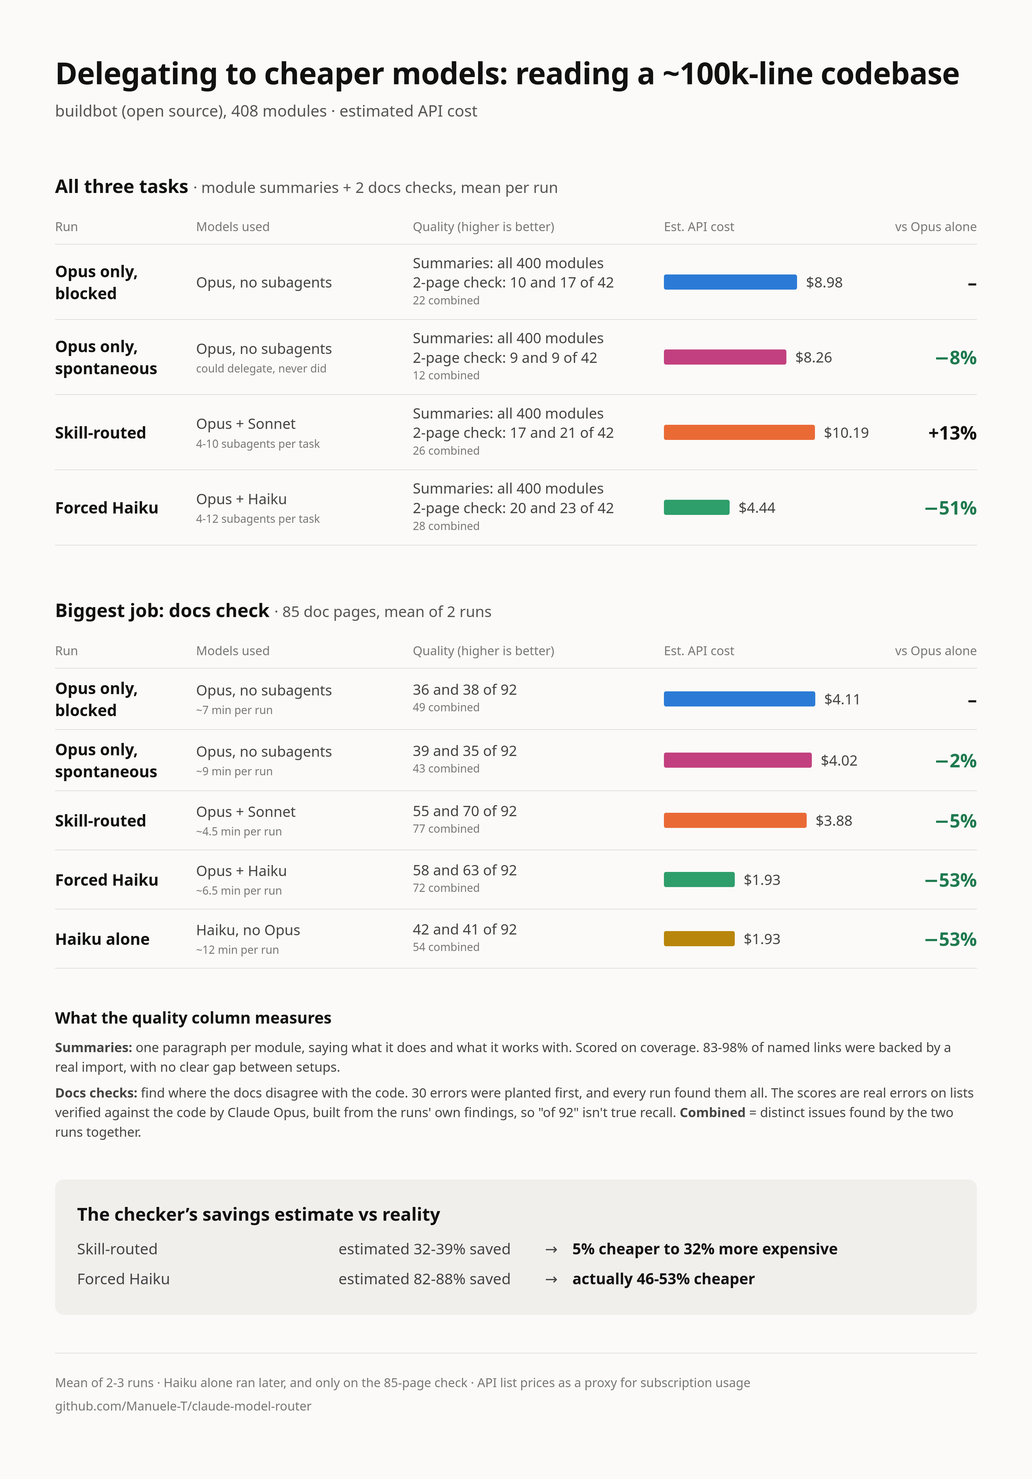
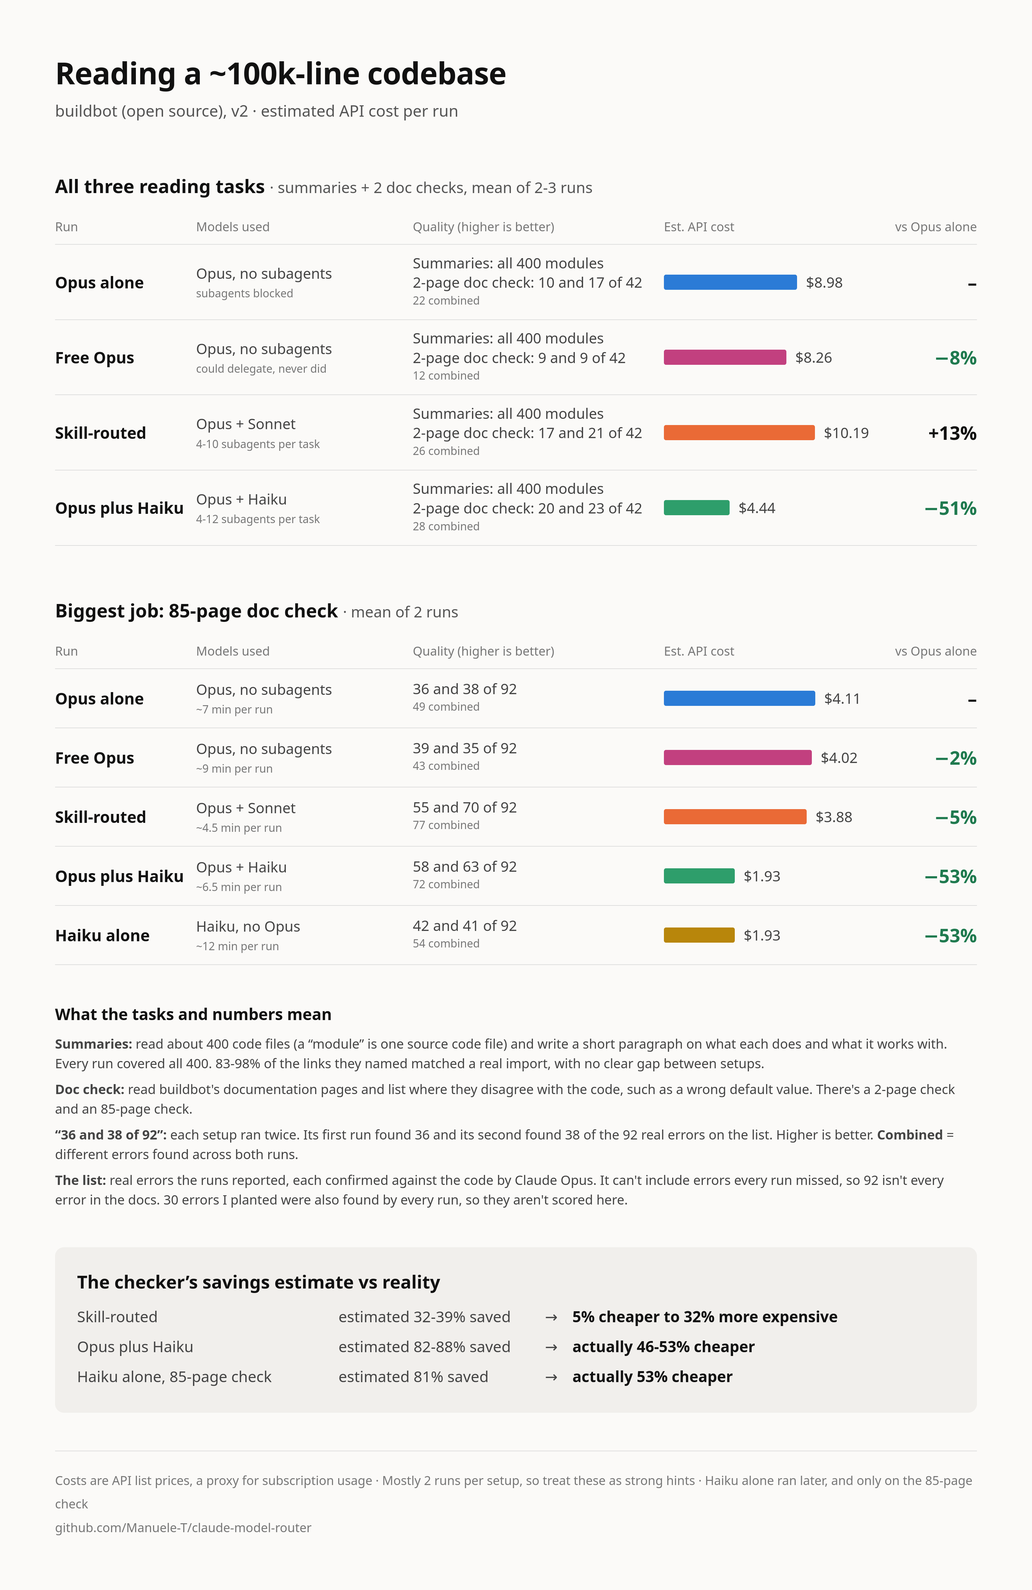
Replace v2 coding chart with clearer charts, add quality vs price chart

diff --git a/scripts/make_charts.py b/scripts/make_charts.py
@@ -53,11 +53,11 @@ def esc(s):
     return html.escape(s)
 
 
-def section(title, note, rows, base="forced Opus"):
+def section(title, note, rows, base="forced Opus", cost_label="Est. API cost"):
     top = max(r["cost"] for r in rows)
     out = [f"<h2>{esc(title)} <span>· {esc(note)}</span></h2>",
            '<div class="thead"><div>Run</div><div>Models used</div><div>Quality (higher is better)</div>'
-           f'<div>Est. API cost</div><div>vs {esc(base)}</div></div>']
+           f'<div>{esc(cost_label)}</div><div>vs {esc(base)}</div></div>']
     for r in rows:
         width = int(440 * r["cost"] / top)
         small = f"<small>{esc(r['small'])}</small>" if r.get("small") else ""
@@ -77,8 +77,8 @@ def section(title, note, rows, base="forced Opus"):
     return "\n".join(out)
 
 
-def page(title, subtitle, sections, explanation, checker, foot_note):
-    expl = ('<div class="expl"><h3>What the quality column measures</h3>'
+def page(title, subtitle, sections, explanation, checker, foot_note, expl_title="What the quality column measures"):
+    expl = (f'<div class="expl"><h3>{esc(expl_title)}</h3>'
             + "".join(f"<p>{x}</p>" for x in explanation) + "</div>")
     lines = "".join(
         f'<div class="l"><div>{esc(a)}</div><div>estimated {esc(b)} saved</div><div>→</div><b>{esc(c)}</b></div>'
@@ -93,6 +93,14 @@ def page(title, subtitle, sections, explanation, checker, foot_note):
 OPUS = {"name": "Opus only, forced", "models": "Opus, no subagents", "small": "told not to delegate", "kind": "opus"}
 NAT = {"name": "Opus only, spontaneous", "models": "Opus, no subagents", "small": "could delegate, never did", "kind": "natural"}
 LEGEND = "Forced = Opus told no routing · Spontaneous = plain Claude Code, no skill (it never delegated) · Skill-routed = the skill picks Opus's helpers · Forced Haiku = every helper on Haiku · API list prices as a proxy for subscription usage"
+
+V2_OPUS = {"name": "Opus alone", "models": "Opus, no subagents", "small": "subagents blocked", "kind": "opus"}
+V2_FREE = {"name": "Free Opus", "models": "Opus, no subagents", "small": "could delegate, never did", "kind": "natural"}
+V2_SKILL = {"name": "Skill-routed", "models": "Opus + Sonnet and Haiku", "small": "my skill picks the helpers", "kind": "routed"}
+V2_OH = {"name": "Opus plus Haiku", "models": "Opus + Haiku", "small": "Opus plans and reviews", "kind": "haiku"}
+V2_H = {"name": "Haiku alone", "models": "Haiku, no Opus", "kind": "solo"}
+V2_KEY = "Costs are API list prices, a proxy for subscription usage · Mostly 2 runs per setup, so treat these as strong hints"
+EXPL = "What the tasks and numbers mean"
 
 CHARTS = {
     "smaller-codebase": (page(
@@ -221,86 +229,104 @@ CHARTS = {
         [],
         "Two runs per setup · Haiku alone ran later, on the same Claude Code version · API list prices as a proxy for subscription usage"), 4000),
     "v2-reading": (page(
-        "Delegating to cheaper models: reading a ~100k-line codebase",
-        "buildbot (open source), 408 modules · estimated API cost",
-        [section("All three tasks", "module summaries + 2 docs checks, mean per run", [
-            {"name": "Opus only, blocked", "models": "Opus, no subagents", "kind": "opus", "cost": 8.98,
-             "quality": ["Summaries: all 400 modules", "2-page check: 10 and 17 of 42 (22 combined)"]},
-            {"name": "Opus only, spontaneous", "models": "Opus, no subagents", "small": "could delegate, never did",
-             "kind": "natural", "cost": 8.26, "delta": "−8%",
-             "quality": ["Summaries: all 400 modules", "2-page check: 9 and 9 of 42 (12 combined)"]},
-            {"name": "Skill-routed", "models": "Opus + Sonnet", "small": "4-10 subagents per task", "kind": "routed",
-             "cost": 10.19, "delta": "+13%",
-             "quality": ["Summaries: all 400 modules", "2-page check: 17 and 21 of 42 (26 combined)"]},
-            {"name": "Forced Haiku", "models": "Opus + Haiku", "small": "4-12 subagents per task", "kind": "haiku",
-             "cost": 4.44, "delta": "−51%",
-             "quality": ["Summaries: all 400 modules", "2-page check: 20 and 23 of 42 (28 combined)"]},
+        "Reading a ~100k-line codebase",
+        "buildbot (open source), v2 · estimated API cost per run",
+        [section("All three reading tasks", "summaries + 2 doc checks, mean of 2-3 runs", [
+            {**V2_OPUS, "cost": 8.98,
+             "quality": ["Summaries: all 400 modules", "2-page doc check: 10 and 17 of 42 (22 combined)"]},
+            {**V2_FREE, "cost": 8.26, "delta": "−8%",
+             "quality": ["Summaries: all 400 modules", "2-page doc check: 9 and 9 of 42 (12 combined)"]},
+            {**V2_SKILL, "models": "Opus + Sonnet", "small": "4-10 subagents per task", "cost": 10.19, "delta": "+13%",
+             "quality": ["Summaries: all 400 modules", "2-page doc check: 17 and 21 of 42 (26 combined)"]},
+            {**V2_OH, "small": "4-12 subagents per task", "cost": 4.44, "delta": "−51%",
+             "quality": ["Summaries: all 400 modules", "2-page doc check: 20 and 23 of 42 (28 combined)"]},
          ], base="Opus alone"),
-         section("Biggest job: docs check", "85 doc pages, mean of 2 runs", [
-            {"name": "Opus only, blocked", "models": "Opus, no subagents", "small": "~7 min per run", "kind": "opus",
-             "cost": 4.11, "quality": ["36 and 38 of 92 (49 combined)"]},
-            {"name": "Opus only, spontaneous", "models": "Opus, no subagents", "small": "~9 min per run", "kind": "natural",
-             "cost": 4.02, "delta": "−2%", "quality": ["39 and 35 of 92 (43 combined)"]},
-            {"name": "Skill-routed", "models": "Opus + Sonnet", "small": "~4.5 min per run", "kind": "routed",
-             "cost": 3.88, "delta": "−5%", "quality": ["55 and 70 of 92 (77 combined)"]},
-            {"name": "Forced Haiku", "models": "Opus + Haiku", "small": "~6.5 min per run", "kind": "haiku",
-             "cost": 1.93, "delta": "−53%", "quality": ["58 and 63 of 92 (72 combined)"]},
-            {"name": "Haiku alone", "models": "Haiku, no Opus", "small": "~12 min per run", "kind": "solo",
-             "cost": 1.93, "delta": "−53%", "quality": ["42 and 41 of 92 (54 combined)"]},
+         section("Biggest job: 85-page doc check", "mean of 2 runs", [
+            {**V2_OPUS, "small": "~7 min per run", "cost": 4.11, "quality": ["36 and 38 of 92 (49 combined)"]},
+            {**V2_FREE, "small": "~9 min per run", "cost": 4.02, "delta": "−2%", "quality": ["39 and 35 of 92 (43 combined)"]},
+            {**V2_SKILL, "models": "Opus + Sonnet", "small": "~4.5 min per run", "cost": 3.88, "delta": "−5%",
+             "quality": ["55 and 70 of 92 (77 combined)"]},
+            {**V2_OH, "small": "~6.5 min per run", "cost": 1.93, "delta": "−53%", "quality": ["58 and 63 of 92 (72 combined)"]},
+            {**V2_H, "small": "~12 min per run", "cost": 1.93, "delta": "−53%", "quality": ["42 and 41 of 92 (54 combined)"]},
          ], base="Opus alone")],
-        ["<b>Summaries:</b> one paragraph per module, saying what it does and what it works with. Scored on coverage. "
-         "83-98% of named links were backed by a real import, with no clear gap between setups.",
-         "<b>Docs checks:</b> find where the docs disagree with the code. 30 errors were planted first, and every run found them all. "
-         "The scores are real errors on lists verified against the code by Claude Opus, built from the runs' own findings, so \"of 92\" isn't true recall. "
-         "<b>Combined</b> = distinct issues found by the two runs together."],
+        ["<b>Summaries:</b> read about 400 code files (a “module” is one source code file) and write a short paragraph on what each does and what it works with. "
+         "Every run covered all 400. 83-98% of the links they named matched a real import, with no clear gap between setups.",
+         "<b>Doc check:</b> read buildbot's documentation pages and list where they disagree with the code, such as a wrong default value. There's a 2-page check and an 85-page check.",
+         "<b>“36 and 38 of 92”:</b> each setup ran twice. Its first run found 36 and its second found 38 of the 92 real errors on the list. Higher is better. <b>Combined</b> = different errors found across both runs.",
+         "<b>The list:</b> real errors the runs reported, each confirmed against the code by Claude Opus. It can't include errors every run missed, so 92 isn't every error in the docs. "
+         "30 errors I planted were also found by every run, so they aren't scored here."],
         [("Skill-routed", "32-39%", "5% cheaper to 32% more expensive"),
-         ("Forced Haiku", "82-88%", "actually 46-53% cheaper")],
-        "Mean of 2-3 runs · Haiku alone ran later, and only on the 85-page check · API list prices as a proxy for subscription usage"), 4300),
-    "v2-coding": (page(
-        "Delegating to cheaper models: writing code",
-        "7 coding tasks, 2 runs per setup · estimated API cost per task group",
-        [section("2 simple tasks, small project", "a clear feature + a planted bug", [
-            {"name": "Opus only, blocked", "models": "Opus, no subagents", "kind": "opus", "cost": 0.89,
-             "quality": ["Hidden tests: 13 of 13, both runs"]},
-            {"name": "Opus only, spontaneous", "models": "Opus, no subagents", "kind": "natural", "cost": 1.04,
-             "delta": "+17%", "quality": ["Hidden tests: 13 of 13, both runs"]},
-            {"name": "Skill-routed", "models": "Opus + Sonnet or Haiku", "kind": "routed", "cost": 1.05, "delta": "+18%",
-             "quality": ["Hidden tests: 13 of 13, both runs"]},
-            {"name": "Forced Haiku", "models": "Opus + Haiku", "kind": "haiku", "cost": 0.70, "delta": "−21%",
-             "quality": ["Hidden tests: 13 of 13, both runs"]},
+         ("Opus plus Haiku", "82-88%", "actually 46-53% cheaper"),
+         ("Haiku alone, 85-page check", "81%", "actually 53% cheaper")],
+        V2_KEY + " · Haiku alone ran later, and only on the 85-page check", EXPL), 4620),
+    "v2-coding-small": (page(
+        "Writing code on a small project",
+        "My own Python project, ~10k lines, v2 · estimated API cost for each group of tasks",
+        [section("2 simple tasks", "a clearly specified feature + a planted bug, mean of 2 runs", [
+            {**V2_OPUS, "cost": 0.89, "quality": ["Hidden tests: 13 and 13 of 13"]},
+            {**V2_FREE, "cost": 1.04, "delta": "+17%", "quality": ["Hidden tests: 13 and 13 of 13"]},
+            {**V2_SKILL, "cost": 1.05, "delta": "+18%", "quality": ["Hidden tests: 13 and 13 of 13"]},
+            {**V2_OH, "cost": 0.70, "delta": "−21%", "quality": ["Hidden tests: 13 and 13 of 13"]},
          ], base="Opus alone"),
-         section("3 harder tasks, small project", "a bug with a trap, a vague feature, a refactor", [
-            {"name": "Opus only, blocked", "models": "Opus, no subagents", "kind": "opus", "cost": 2.41,
-             "quality": ["Hidden tests: 43 and 42 of 43"]},
-            {"name": "Opus only, spontaneous", "models": "Opus, no subagents", "kind": "natural", "cost": 2.61,
-             "delta": "+8%", "quality": ["Hidden tests: 43 and 42 of 43"]},
-            {"name": "Skill-routed", "models": "Opus + Sonnet and Haiku", "kind": "routed", "cost": 2.89, "delta": "+20%",
-             "quality": ["Hidden tests: 43 and 42 of 43"]},
-            {"name": "Forced Haiku", "models": "Opus + Haiku", "kind": "haiku", "cost": 1.80, "delta": "−25%",
-             "quality": ["Hidden tests: 43 and 42 of 43"]},
-            {"name": "Haiku alone", "models": "Haiku, no Opus", "kind": "solo", "cost": 0.11, "delta": "−95%",
-             "quality": ["Hidden tests: 43 and 43 of 43"]},
-         ], base="Opus alone"),
-         section("2 harder tasks, ~100k lines", "a REST endpoint, a bug far from its symptom", [
-            {"name": "Opus only, blocked", "models": "Opus, no subagents", "kind": "opus", "cost": 1.95,
-             "quality": ["Official tests: 17 and 17 of 21", "Corrected tests: 21 and 21 of 21", "Speed index: 2 of 2", "Flagged symptom: 2 of 2"]},
-            {"name": "Opus only, spontaneous", "models": "Opus, no subagents", "kind": "natural", "cost": 1.88, "delta": "−4%",
-             "quality": ["Official tests: 17 and 17 of 21", "Corrected tests: 21 and 21 of 21", "Speed index: 2 of 2", "Flagged symptom: 2 of 2"]},
-            {"name": "Skill-routed", "models": "Opus + Sonnet and Haiku", "kind": "routed", "cost": 1.82, "delta": "−7%",
-             "quality": ["Official tests: 17 and 21 of 21", "Corrected tests: 21 and 21 of 21", "Speed index: 2 of 2", "Flagged symptom: 2 of 2"]},
-            {"name": "Forced Haiku", "models": "Opus + Haiku", "kind": "haiku", "cost": 1.36, "delta": "−30%",
-             "quality": ["Official tests: 21 and 17 of 21", "Corrected tests: 21 and 21 of 21", "Speed index: 2 of 2", "Flagged symptom: 2 of 2"]},
-            {"name": "Haiku alone", "models": "Haiku, no Opus", "kind": "solo", "cost": 0.15, "delta": "−93%",
-             "quality": ["Official tests: 17 and 17 of 21", "Corrected tests: 21 and 21 of 21", "Speed index: 0 of 2", "Flagged symptom: 0 of 2"]},
+         section("3 harder tasks", "a bug with a trap, a vague feature, a refactor, mean of 2 runs", [
+            {**V2_OPUS, "cost": 2.41, "quality": ["Hidden tests: 43 and 42 of 43"]},
+            {**V2_FREE, "cost": 2.61, "delta": "+8%", "quality": ["Hidden tests: 43 and 42 of 43"]},
+            {**V2_SKILL, "cost": 2.89, "delta": "+20%", "quality": ["Hidden tests: 43 and 42 of 43"]},
+            {**V2_OH, "cost": 1.80, "delta": "−25%", "quality": ["Hidden tests: 43 and 42 of 43"]},
+            {**V2_H, "cost": 0.11, "delta": "−95%", "quality": ["Hidden tests: 43 and 43 of 43"]},
          ], base="Opus alone")],
-        ["<b>Hidden tests:</b> written before the runs and copied in afterwards, so no run could see them. Each run's two scores are shown. "
-         "The whole unit suite also passed in every run, once a rare flaky test was re-run.",
-         "<b>Lost points are my test flaws, not bugs:</b> the 42s are runs that added a useful field my test didn't expect. The official 17s are runs that "
-         "sensibly required a completion time my test data left out. The corrected test fixes only that, and was written after seeing the first failure.",
-         "<b>Speed index and flagged symptom</b> aren't test scores. Runs were asked for an endpoint fast on millions of builds, and whether they added a database index "
-         "comes from reading the code. The bug report also described a symptom the bug doesn't seem to cause, and whether a run said so comes from reading its report."],
+        ["<b>Clear feature:</b> add an optional description to app profiles, following exact rules. <b>Planted bug:</b> from a user's report, find and fix a bug I added to the code.",
+         "<b>Bug with a trap:</b> fix a real bug where apps set to start at login didn't start properly, and where the obvious fix fails. <b>Vague feature:</b> add a command to rename a profile, with one rule: whatever worked under the old name must keep working. <b>Refactor:</b> split a ~700-line file into smaller ones without changing behaviour.",
+         "<b>“43 and 42 of 43”:</b> each setup ran twice. Its first run passed 43 and its second passed 42 of the 43 hidden tests. Higher is better. Hidden tests were written before the runs and added afterwards, so no run could see them. The project's own tests also passed in every run, once a rare flaky test was re-run.",
+         "<b>The lost points are a flaw in my test, not bugs:</b> those runs added a useful extra field that my test didn't expect."],
+        [("Simple, skill-routed", "32%", "actually cost 18% more"),
+         ("Simple, Opus plus Haiku", "65%", "actually 21% cheaper"),
+         ("Harder, skill-routed", "32%", "actually cost 20% more"),
+         ("Harder, Opus plus Haiku", "66%", "actually 25% cheaper"),
+         ("Harder, Haiku alone", "96%", "actually 95% cheaper")],
+        V2_KEY + " · Haiku alone ran later, and not on the simple tasks", EXPL), 4620),
+    "v2-coding-large": (page(
+        "Writing code on a ~100k-line codebase",
+        "buildbot (open source), v2 · estimated API cost for both tasks, mean of 2 runs",
+        [section("2 harder tasks", "a REST endpoint + a bug far from its symptom", [
+            {**V2_OPUS, "cost": 1.95, "quality": ["Official tests: 17 and 17 of 21", "Corrected tests: 21 and 21 of 21", "Speed index: 2 of 2", "Flagged the odd symptom: 2 of 2"]},
+            {**V2_FREE, "cost": 1.88, "delta": "−4%", "quality": ["Official tests: 17 and 17 of 21", "Corrected tests: 21 and 21 of 21", "Speed index: 2 of 2", "Flagged the odd symptom: 2 of 2"]},
+            {**V2_SKILL, "cost": 1.82, "delta": "−7%", "quality": ["Official tests: 17 and 21 of 21", "Corrected tests: 21 and 21 of 21", "Speed index: 2 of 2", "Flagged the odd symptom: 2 of 2"]},
+            {**V2_OH, "cost": 1.36, "delta": "−30%", "quality": ["Official tests: 21 and 17 of 21", "Corrected tests: 21 and 21 of 21", "Speed index: 2 of 2", "Flagged the odd symptom: 2 of 2"]},
+            {**V2_H, "cost": 0.15, "delta": "−93%", "quality": ["Official tests: 17 and 17 of 21", "Corrected tests: 21 and 21 of 21", "Speed index: 0 of 2", "Flagged the odd symptom: 0 of 2"]},
+         ], base="Opus alone")],
+        ["<b>REST endpoint:</b> add a web API address returning how many of a builder's builds passed, failed and so on, staying fast with millions of builds. "
+         "<b>Far-off bug:</b> notifications blamed the wrong people, and the cause was elsewhere, in buildbot's database code. I planted this bug, and buildbot's 6,400+ existing tests don't catch it.",
+         "<b>“17 and 17 of 21”:</b> each setup ran twice, and each run's hidden tests passed are shown. Higher is better. Hidden tests were written before the runs. Buildbot's own tests also passed in every run.",
+         "<b>Official vs corrected:</b> my test data wrongly left out a completion time, so careful runs lost 4 points. The official scores stand. The corrected test fixes only that, and was written after seeing the first failure.",
+         "<b>Speed index</b> (endpoint task): did the run add a database index? <b>Flagged the odd symptom</b> (bug task): the report described a symptom the bug doesn't seem to cause, so did the run say it couldn't reproduce it? "
+         "Tests don't score either one: they come from reading the runs' code and reports. 2 of 2 means both runs did it."],
+        [("Skill-routed", "38%", "actually 7% cheaper"),
+         ("Opus plus Haiku", "67%", "actually 30% cheaper"),
+         ("Haiku alone", "93%", "actually 93% cheaper")],
+        V2_KEY + " · Haiku alone ran later", EXPL), 3920),
+    "v2-quality-price": (page(
+        "Quality vs price: what does each real error cost?",
+        "v2, doc checks on two codebases · estimated API cost per real error found",
+        [section("85-page doc check", "buildbot, ~100k lines", [
+            {**V2_OPUS, "cost": 0.11, "quality": ["Found 36 and 38 of 92", "Both runs missed 43", "False claims: 0"]},
+            {**V2_FREE, "cost": 0.11, "delta": "−2%", "quality": ["Found 39 and 35 of 92", "Both runs missed 49", "False claims: 0"]},
+            {**V2_SKILL, "models": "Opus + Sonnet", "cost": 0.06, "delta": "−44%", "quality": ["Found 55 and 70 of 92", "Both runs missed 15", "False claims: 0"]},
+            {**V2_OH, "cost": 0.03, "delta": "−71%", "quality": ["Found 58 and 63 of 92", "Both runs missed 20", "False claims: 0"]},
+            {**V2_H, "small": "up to 20% of line citations don't exist", "cost": 0.05, "delta": "−58%", "quality": ["Found 42 and 41 of 92", "Both runs missed 38", "False claims: 1"]},
+         ], base="Opus alone", cost_label="Cost per real error"),
+         section("80-page doc check", "beets, ~52k lines, v1 runs re-scored", [
+            {"name": "Forced Opus", "models": "Opus, no subagents", "small": "told not to delegate", "kind": "opus", "cost": 0.25, "quality": ["Found 41 and 33 of 61", "Both runs missed 17"]},
+            {**V2_FREE, "cost": 0.19, "delta": "−22%", "quality": ["Found 27 and 35 of 61", "Both runs missed 25"]},
+            {**V2_SKILL, "models": "Opus + Sonnet", "cost": 0.14, "delta": "−45%", "quality": ["Found 30 and 28 of 61", "Both runs missed 26"]},
+            {**V2_OH, "cost": 0.05, "delta": "−80%", "quality": ["Found 30 and 30 of 61", "Both runs missed 22"]},
+         ], base="forced Opus", cost_label="Cost per real error")],
+        ["<b>Doc check:</b> read a project's documentation pages and list where they disagree with the code, such as a wrong default value.",
+         "<b>Cost per real error:</b> a setup's mean cost per run, divided by the real errors it found per run. Lower is better, but it treats a typo and a serious error the same, and a cheap setup can win while finding fewer errors.",
+         "<b>“36 and 38 of 92”:</b> each setup ran twice. Its first run found 36 and its second found 38 of the 92 real errors on the list. Higher is better. The list holds errors the runs reported, each confirmed against the code by Claude Opus, so it can't include errors every run missed.",
+         "<b>Both runs missed:</b> errors on the list that neither of the setup's two runs found. Lower is better. <b>False claims:</b> errors a run reported that I confirmed were wrong. This is a minimum, judged by Claude Opus knowing which setup wrote each report, and not counted on beets."],
         [],
-        "Sum of each task's mean cost · Haiku alone ran later, and not on the simple tasks · API list prices as a proxy for subscription usage"), 5400),
+        V2_KEY, EXPL), 4020),
 }
 
 

diff --git a/README.md b/README.md
@@ -104,7 +104,11 @@ Same caveats as v1: costs are an API-price proxy, there are only 2-3 runs per se
 ### v2: writing code
 
 <p align="center">
-  <img src="charts/v2-coding.png" alt="Writing code: on 2 simple tasks, costs were $0.89 for Opus alone, $1.04 spontaneous Opus, $1.05 skill-routed and $0.70 forced Haiku; on 3 harder tasks $2.41, $2.61, $2.89, $1.80 and $0.11 for Haiku alone; on 2 harder tasks on about 100k lines $1.95, $1.88, $1.82, $1.36 and $0.15 for Haiku alone. Every setup produced working code; hidden-test points lost came from flaws in the tests" width="800">
+  <img src="charts/v2-coding-small.png" alt="Writing code on the small project: on 2 simple tasks, costs were $0.89 for Opus alone, $1.04 free Opus, $1.05 skill-routed and $0.70 Opus plus Haiku, all passing 13 of 13 hidden tests; on 3 harder tasks, $2.41, $2.61, $2.89, $1.80 and $0.11 for Haiku alone, with the lost points coming from a flaw in my test" width="800">
+</p>
+
+<p align="center">
+  <img src="charts/v2-coding-large.png" alt="Writing code on buildbot: 2 harder tasks cost $1.95 for Opus alone, $1.88 free Opus, $1.82 skill-routed, $1.36 Opus plus Haiku and $0.15 Haiku alone. All scored 21 of 21 on corrected tests. All Opus-led runs added a speed index and flagged the odd symptom; neither Haiku-alone run did" width="800">
 </p>
 
 "But I only use Claude for coding." So v2 also tests tasks that write code, on the small codebase: a well-specified feature touching 7-9 files, and a bug hunt from a user's symptom (one bug planted before any run, not caught by the existing tests). Each was scored by a hidden test file written before any run, plus the whole unit suite. Each setup ran twice ([`data/tasks-v6.md`](data/tasks-v6.md)).
@@ -197,6 +201,10 @@ On those coding tasks Haiku alone matched every other setup's hidden-test scores
 **What I'd do today:** on small, testable coding tasks, try Haiku alone and review the result yourself. Want more care, or doing a big review? Use Opus delegating to Haiku. This is 2 runs per setup, on tasks every setup could do. Haiku alone hasn't yet met a coding task it fails, so this doesn't show where its limit is.
 
 ### v2: cost per error, and errors missed twice
+
+<p align="center">
+  <img src="charts/v2-quality-price.png" alt="Cost per real error. On the 85-page buildbot check: Opus alone $0.11, free Opus $0.11, skill-routed $0.06, Opus plus Haiku $0.03, Haiku alone $0.05. On the 80-page beets check: forced Opus $0.25, free Opus $0.19, skill-routed $0.14, Opus plus Haiku $0.05" width="800">
+</p>
 
 Two questions from a reader. **What does each real error cost?** And **does a setup keep missing the same errors?** If it does, whatever's on the list could decide the verdict.
 
